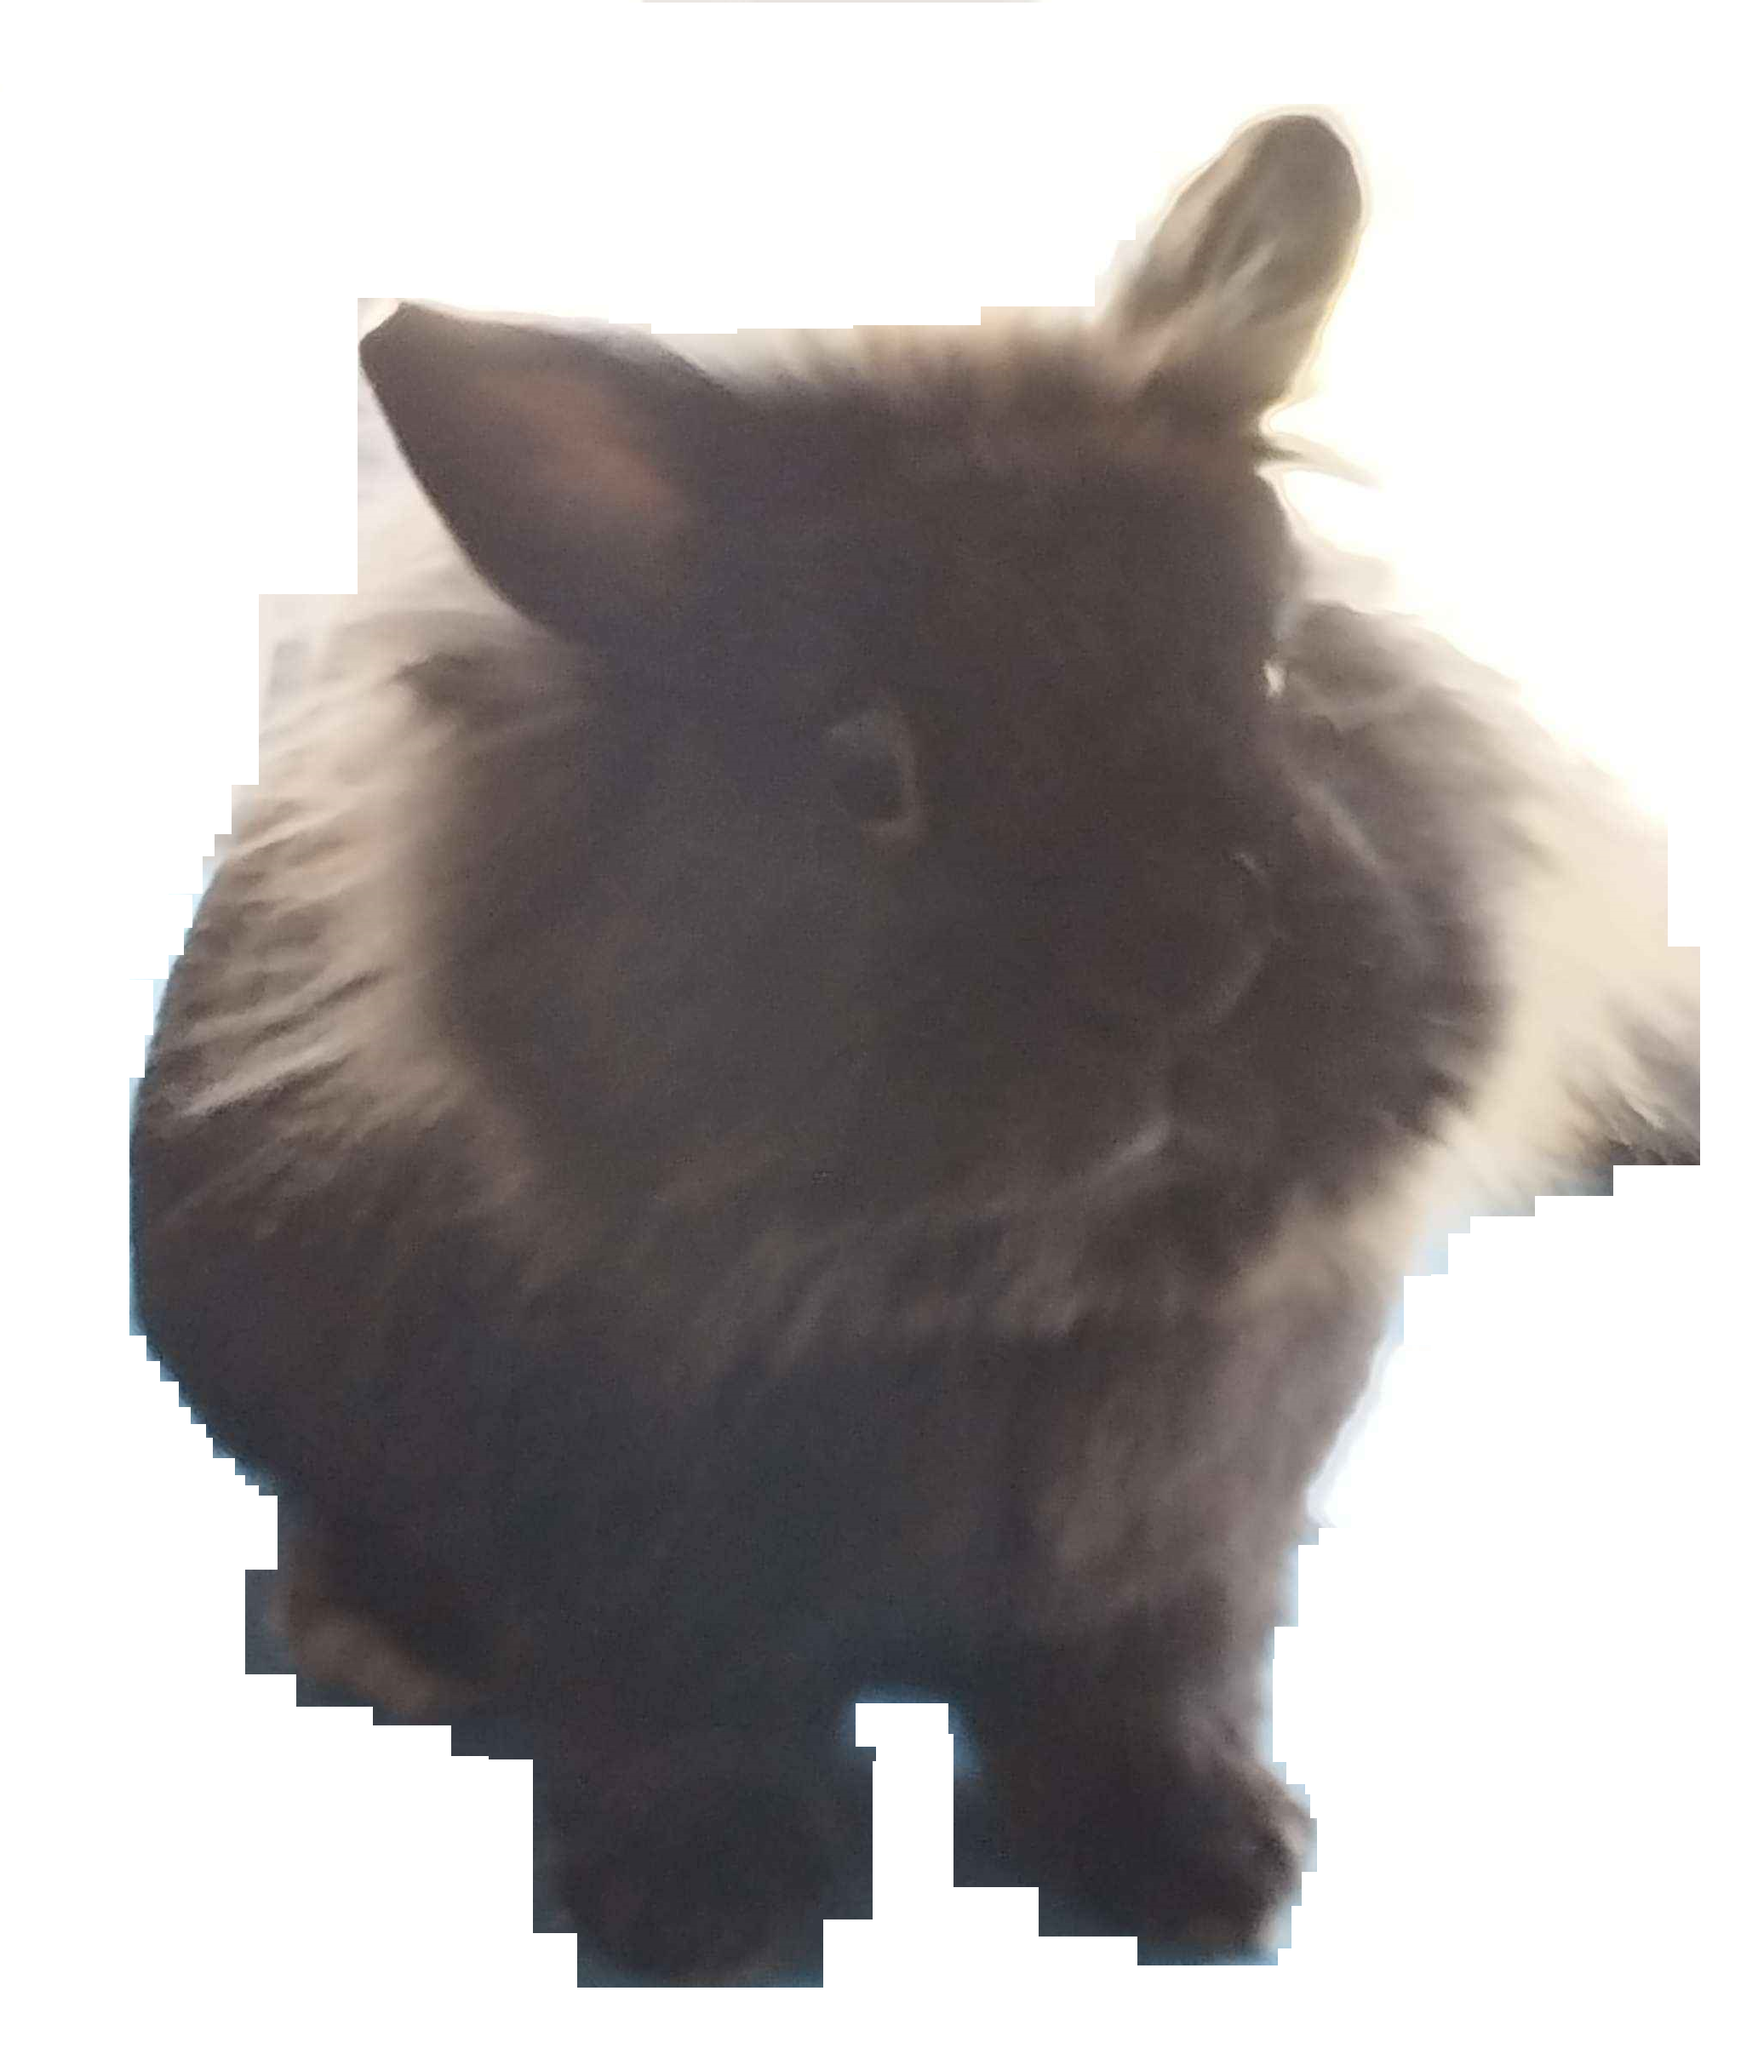
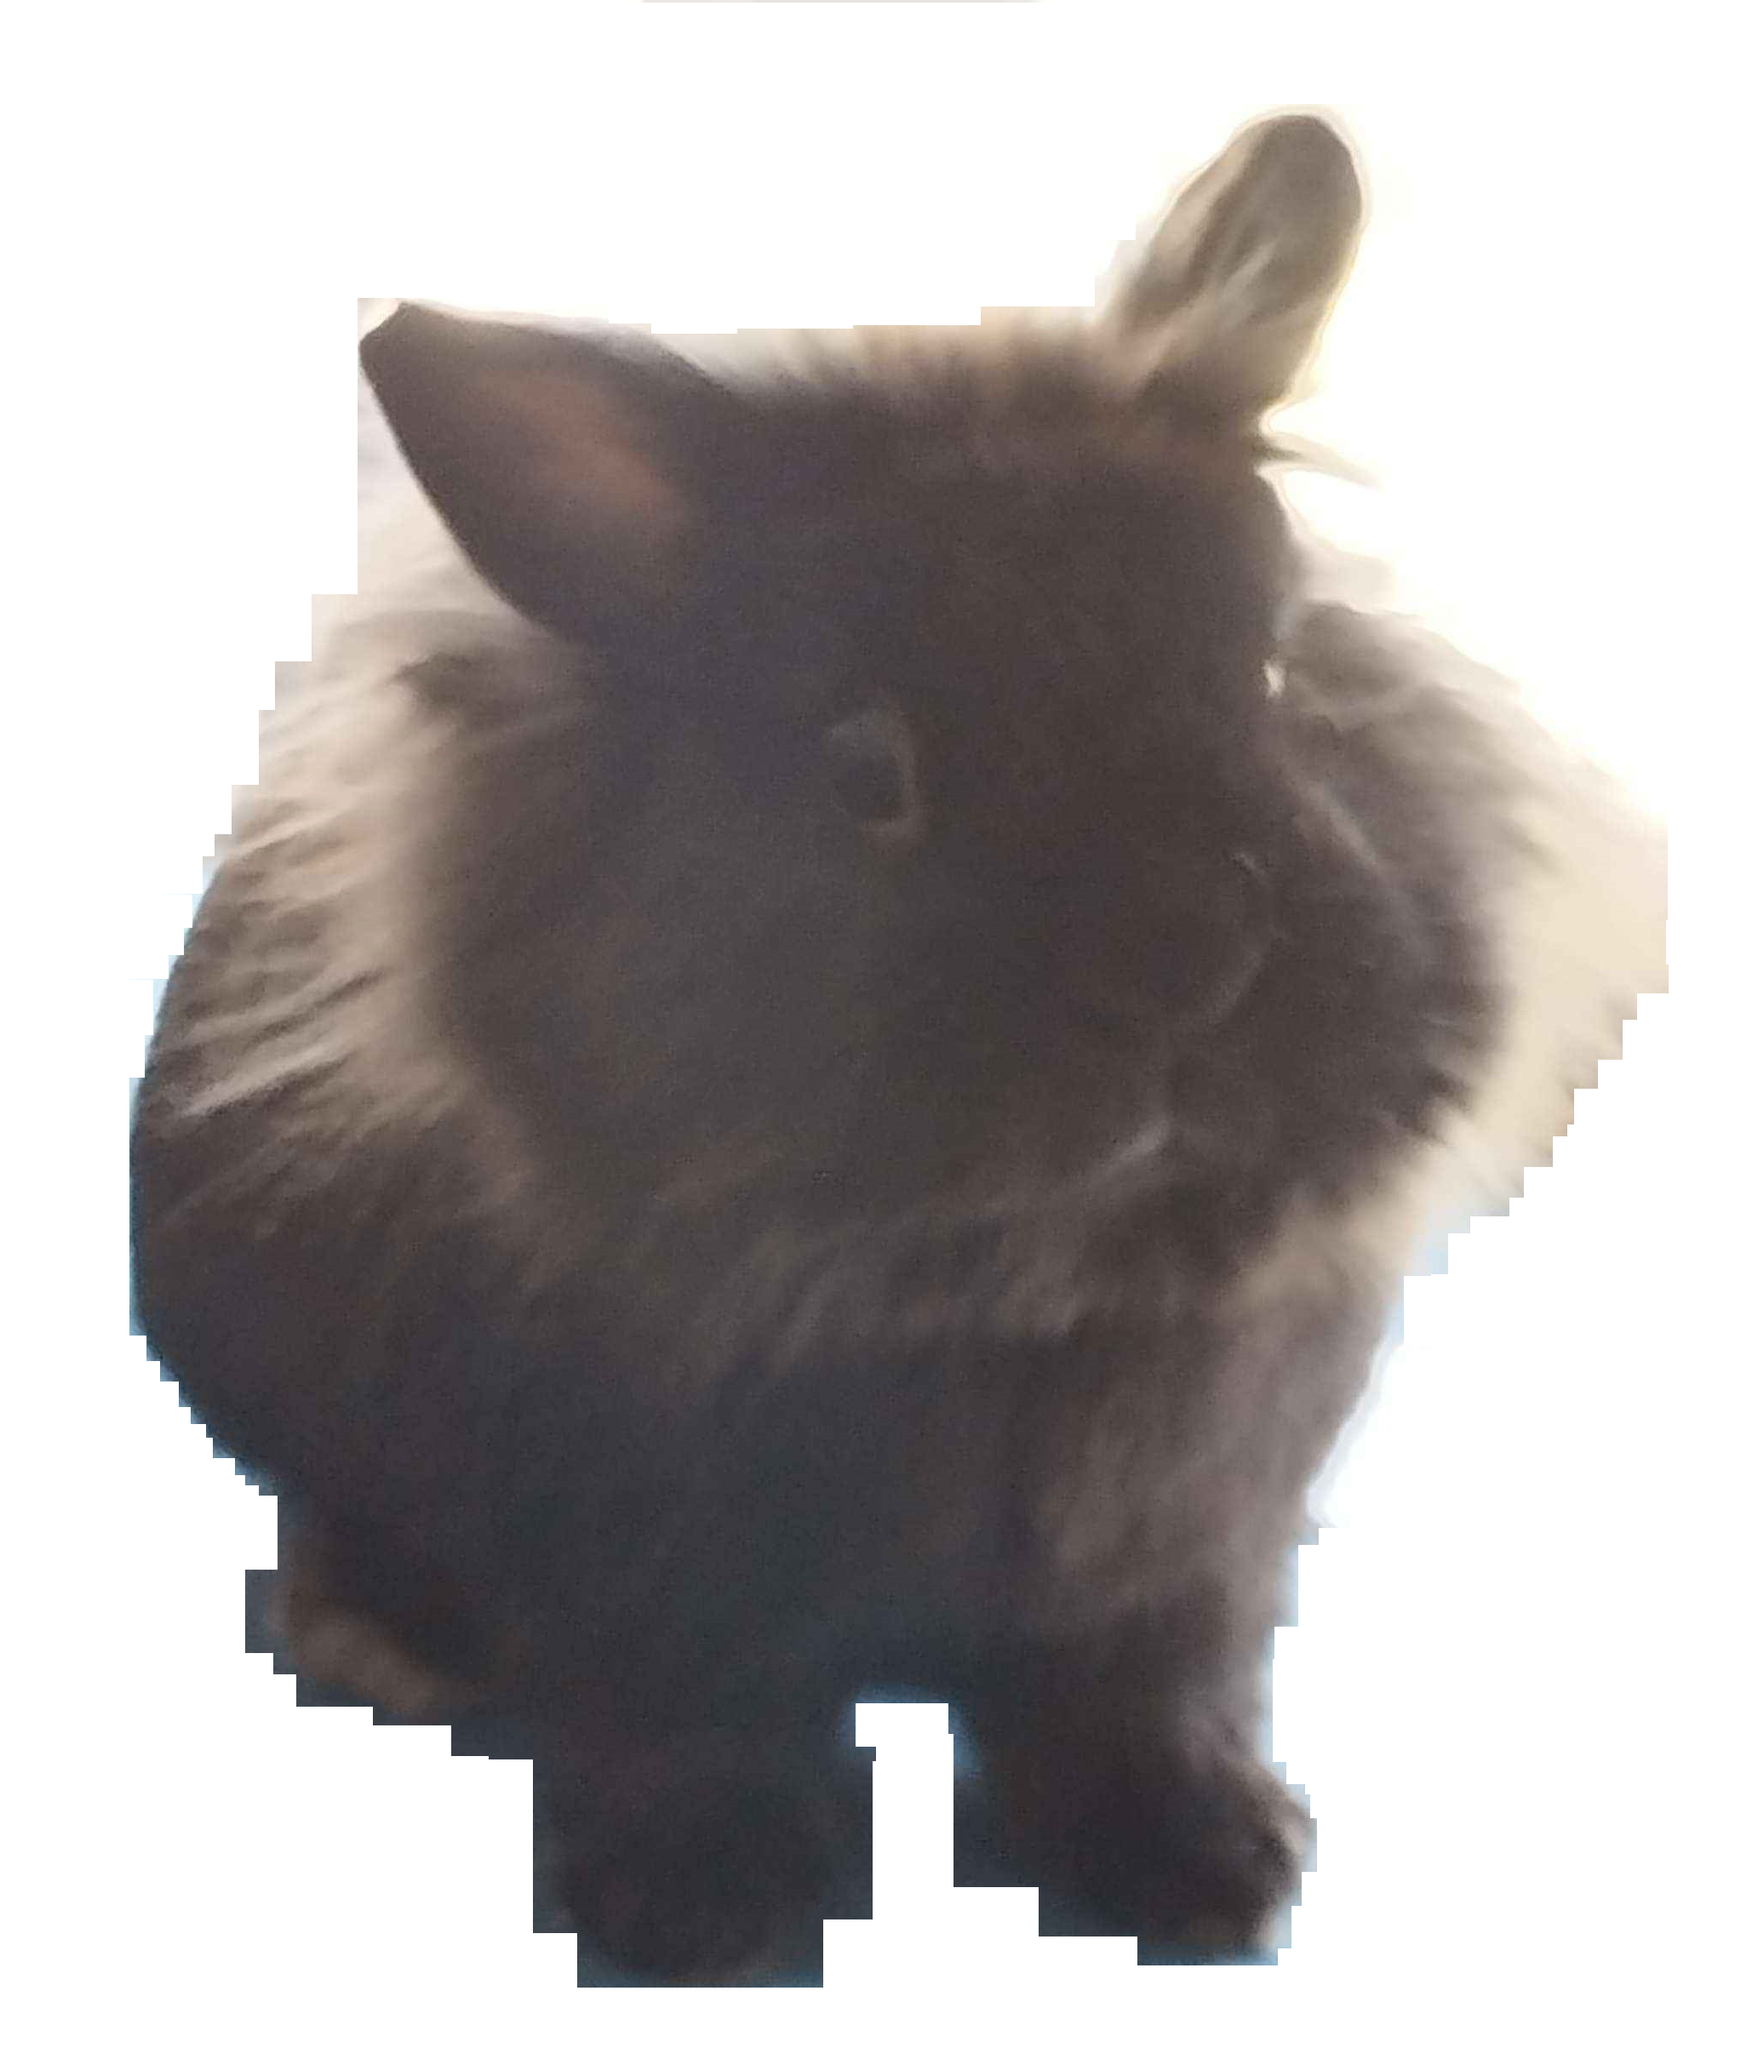
parrying & stats turns

Changed region(s): [[0.8368, 0.4373, 0.9918, 0.5935], [0.124, 0.2811, 0.186, 0.3436], [0.124, 0.7809, 0.155, 0.8122]]

diff --git a/src/main/java/ui/scenes/BattleScene.java b/src/main/java/ui/scenes/BattleScene.java
@@ -5,6 +5,7 @@ import entities.CharacterElement;
 import entities.Stat;
 import game.BattleManager;
 import game.BattleState;
+import javafx.beans.binding.Bindings;
 import javafx.geometry.Insets;
 import javafx.geometry.Pos;
 import javafx.scene.Scene;
@@ -85,6 +86,10 @@ public class BattleScene {
 
 	private String purpleBorderStyle() {
 		return debug?"-fx-border-color: purple; -fx-border-width: 2; -fx-border-style: solid;":"";
+	}
+
+	private String blackBorderStyle() {
+		return "-fx-border-color: black; -fx-border-width: 2; -fx-border-style: solid;";
 	}
 	
     public BattleScene(BattleManager battleManagerParam) {
@@ -272,6 +277,7 @@ public class BattleScene {
 		parryButton.setFocusTraversable(false);
 		parryButton.prefWidthProperty().bind(attackPane.widthProperty().multiply(.9));
 		parryButton.setStyle("-fx-background-radius: 100; -fx-border-radius: 100;");
+		parryButton.setOnAction(_ -> battleManager.firstChoiceParry());
 		parryPane.widthProperty().addListener((_, _, newW) -> {
 			parryButton.setFont(Font.font(newW.doubleValue() * .05));
 		});
@@ -283,8 +289,6 @@ public class BattleScene {
 		firstChoicePane.getChildren().addAll(firstChoicePaneSpacer1,attackPersonaPane, parryPane, firstChoicePaneSpacer2);
 	}
 	
-	
-
 	private void setAllyStatsPane(VBox leftPane) {
 		allyStatsPane.setStyle(greenBorderStyle());
 		allyStatsPane.setAlignment(Pos.CENTER);
@@ -349,12 +353,27 @@ public class BattleScene {
 		Region enemiesPaneSpacer1 = getEnemiesPaneSpacer(enemiesPane);
 		VBox enemyPane1 = getEnemyPane(enemiesPane, 5);
 		enemyPane1.visibleProperty().bind(battleManager.getICharacter(5).isAliveProperty());
+		enemyPane1.styleProperty().bind(
+		    Bindings.when(battleManager.getICharacter(5).isPlayingProperty())
+		        .then(blackBorderStyle())
+		        .otherwise("")
+		);
 		Region enemiesPaneSpacer2 = getEnemiesPaneSpacer(enemiesPane);
 		VBox enemyPane2 = getEnemyPane(enemiesPane, 1);
 		enemyPane2.visibleProperty().bind(battleManager.getICharacter(1).isAliveProperty());
+		enemyPane2.styleProperty().bind(
+		    Bindings.when(battleManager.getICharacter(1).isPlayingProperty())
+		        .then(blackBorderStyle())
+		        .otherwise("")
+		);
 		Region enemiesPaneSpacer3 = getEnemiesPaneSpacer(enemiesPane);
 		VBox enemyPane3 = getEnemyPane(enemiesPane, 3);
 		enemyPane3.visibleProperty().bind(battleManager.getICharacter(3).isAliveProperty());
+		enemyPane3.styleProperty().bind(
+		    Bindings.when(battleManager.getICharacter(3).isPlayingProperty())
+		        .then(blackBorderStyle())
+		        .otherwise("")
+		);
 		Region enemiesPaneSpacer4 = getEnemiesPaneSpacer(enemiesPane);
 		
 		enemiesPane.getChildren().addAll(enemiesPaneSpacer1, enemyPane1, enemiesPaneSpacer3, enemyPane2, enemiesPaneSpacer2, enemyPane3, enemiesPaneSpacer4);
@@ -448,12 +467,27 @@ public class BattleScene {
 		Region alliesPaneSPacer1 = getAlliesPaneSpacer(alliesPane);
 		VBox allyPane1 = getAllyPane(alliesPane, 4);
 		allyPane1.visibleProperty().bind(battleManager.getICharacter(4).isAliveProperty());
+		allyPane1.styleProperty().bind(
+		    Bindings.when(battleManager.getICharacter(4).isPlayingProperty())
+		        .then(blackBorderStyle())
+		        .otherwise("")
+		);
 		Region alliesPaneSPacer2 = getAlliesPaneSpacer(alliesPane);
 		VBox allyPane2 = getAllyPane(alliesPane, 0);
 		allyPane2.visibleProperty().bind(battleManager.getICharacter(0).isAliveProperty());
+		allyPane2.styleProperty().bind(
+		    Bindings.when(battleManager.getICharacter(0).isPlayingProperty())
+		        .then(blackBorderStyle())
+		        .otherwise("")
+		);
 		Region alliesPaneSPacer3 = getAlliesPaneSpacer(alliesPane);
 		VBox allyPane3 = getAllyPane(alliesPane, 2);
 		allyPane3.visibleProperty().bind(battleManager.getICharacter(2).isAliveProperty());
+		allyPane3.styleProperty().bind(
+		    Bindings.when(battleManager.getICharacter(2).isPlayingProperty())
+		        .then(blackBorderStyle())
+		        .otherwise("")
+		);
 		Region alliesPaneSPacer4 = getAlliesPaneSpacer(alliesPane);
 		
 		

diff --git a/src/main/java/entities/Character.java b/src/main/java/entities/Character.java
@@ -1,5 +1,6 @@
 package entities;
 
+import java.util.EnumMap;
 import java.util.Map;
 
 import javafx.beans.property.BooleanProperty;
@@ -22,10 +23,11 @@ public class Character {
 	private Map<CharacterElement, Resistance> resistances;
 	private Map<CharacterElement, Boolean> discoveredResistances;
 	private Map<Stat, Double> stats;
+	private Map<Stat, Integer> remainingTurnsStats;
 	private boolean isStun;
-	private boolean isParrying;
+	private BooleanProperty isParrying = new SimpleBooleanProperty();
+	private BooleanProperty isPlaying = new SimpleBooleanProperty();
 	private String imagePath;
-	
 	
 	public Character(String name, int maxHP, int maxAP, boolean isAlive, boolean isAlly, Map<CharacterElement, Resistance> resistances, Map<CharacterElement, Boolean> discoveredResistances, Map<Stat, Double> stats, String imagePath) {
 		this.id = nextCharacterId;
@@ -39,6 +41,12 @@ public class Character {
 		this.resistances = resistances;
 		this.discoveredResistances = discoveredResistances;
 		this.stats = stats;
+		this.remainingTurnsStats = new EnumMap<>(Stat.class);
+		remainingTurnsStats.put(Stat.ATTACK, 0);
+		remainingTurnsStats.put(Stat.DEFENSE, 0);
+		remainingTurnsStats.put(Stat.ACCURACY, 0);
+		remainingTurnsStats.put(Stat.EVASION, 0);
+		remainingTurnsStats.put(Stat.CRITICAL, 0);
 		isStun = false;
 		this.imagePath = imagePath;
 		
@@ -80,6 +88,22 @@ public class Character {
 	public BooleanProperty isAliveProperty() {
 		return isAlive;
 	}
+
+	public void setIsParrying(boolean isParrying) {
+		this.isParrying.set(isParrying);;
+	}
+
+	public BooleanProperty isParryingProperty() {
+		return isParrying;
+	}
+
+	public void setIsPlaying(boolean isPlaying) {
+		this.isPlaying.set(isPlaying);;
+	}
+
+	public BooleanProperty isPlayingProperty() {
+		return isPlaying;
+	}
 	
 	public StatStatus getStatStatus(Stat stat) {
 		if (stats.get(stat) == stat.getDefaultValue()) {
@@ -89,6 +113,22 @@ public class Character {
 		} else {
 			return StatStatus.DECREASED;
 		}
+	}
+	
+	public int getRemainingTurnsStat(Stat stat) {
+		return remainingTurnsStats.get(stat);
+	}
+	
+	public void setRemainingTurnsStat(Stat stat, int turns) {
+		remainingTurnsStats.put(stat, turns);
+	}
+	
+	public void removeOneTurnFromStats() {
+		remainingTurnsStats.replaceAll((_, turns) -> turns>0 ? turns-1 : 0);
+		remainingTurnsStats.forEach((stat, turn) -> {
+			if (turn == 0)
+				stats.put(stat, stat.getDefaultValue());
+		});
 	}
 	
 	public Resistance getDiscoveredResistance(CharacterElement element) {

diff --git a/src/main/java/game/BattleManager.java b/src/main/java/game/BattleManager.java
@@ -13,20 +13,40 @@ public class BattleManager {
 
     public BattleManager(List<Character> charactersInBattle) {
         this.charactersInBattle = charactersInBattle;
+        charactersInBattle.get(playingIndex).setIsPlaying(true);
     }
 
     public Character getCurrentCharacter() {
         return charactersInBattle.get(playingIndex);
     }
 
-    public void nextTurn() {
-    	playingIndex = (playingIndex + 1)%charactersInBattle.size();
-    }
-    
     public Character getICharacter(int i) {
     	return i < charactersInBattle.size() ? charactersInBattle.get(i) : null;
     }
     
+    private boolean isAllyPlaying() {
+    	return playingIndex%2 == 0;
+    }
+    
+    private void nextTurn() {
+		charactersInBattle.get(playingIndex).setIsPlaying(false);
+    	playingIndex = (playingIndex + 1)%charactersInBattle.size();
+		charactersInBattle.get(playingIndex).setIsPlaying(true);
+		charactersInBattle.get(playingIndex).removeOneTurnFromStats();
+		if (isAllyPlaying())
+			allyTurn();
+		else
+			ennemyTurn();
+    }
+    
+    private void allyTurn() {
+		charactersInBattle.get(playingIndex).setIsParrying(false);
+    }
+    
+    private void ennemyTurn() {
+		charactersInBattle.get(playingIndex).setIsParrying(false);
+		nextTurn();
+    }
     
     public ObjectProperty<BattleState> getState() {
 		return state;
@@ -35,4 +55,9 @@ public class BattleManager {
 	public void firstChoiceAttack() {
     	state.set(BattleState.ATTACKSELECTION);
     }
+	
+	public void firstChoiceParry() {
+		charactersInBattle.get(playingIndex).setIsParrying(true);
+		nextTurn();
+	}
 }
